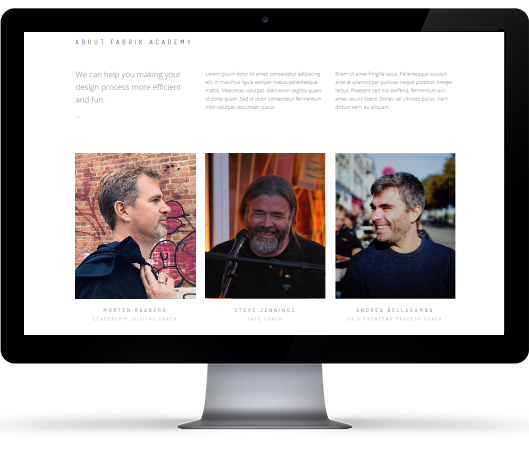
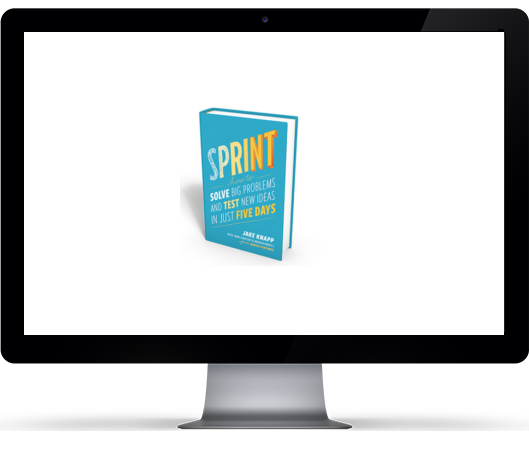
changed a bit of content
added new promo image
commented out team members session

Changed region(s): [[0.121, 0.1556, 0.8771, 0.7156], [0.6352, 0.1556, 0.8469, 0.2489], [0.1512, 0.1556, 0.3327, 0.2489]]

diff --git a/index.html b/index.html
@@ -93,7 +93,7 @@
                             </h1>
                             
                             <div class="hs-line-6">
-                             get better and faster at creating or innovating your product
+                                intelligence is the ability to adapt to change 
                             </div>
                             
                         </div>
@@ -127,8 +127,6 @@
                                     <p>
                                     We can help you making your design process more efficient and fun.
                                     </p>
-                                    <footer>
-                                    </footer>
                                 </blockquote>
                             </div>
                             
@@ -146,7 +144,7 @@
                     <div class="row">
                         
                         <!-- Team item -->
-                        <div class="col-sm-4 mb-xs-30 wow fadeInUp">
+                        <!-- <div class="col-sm-4 mb-xs-30 wow fadeInUp">
                             <div class="team-item">
                                 
                                 <div class="team-item-image">
@@ -164,7 +162,7 @@
                                         <div class="team-social-links">
                                             <a href="#" target="_blank"><i class="fab fa-facebook"></i></a>
                                             <a href="#" target="_blank"><i class="fab fa-twitter"></i></a>
-                                            <a href="#" target="_blank"><i class="fab fa-pinterest"></i></a>
+                                            <a href="#" target="_blank"><i class="fab fa-pinterest-circled"></i></a>
                                         </div>
                                         
                                     </div>
@@ -183,11 +181,11 @@
                                 </div>
                                 
                             </div>
-                        </div>
+                        </div> -->
                         <!-- End Team item -->
                         
                         <!-- Team item -->
-                        <div class="col-sm-4 mb-xs-30 wow fadeInUp" data-wow-delay="0.1s">
+                        <!-- <div class="col-sm-4 mb-xs-30 wow fadeInUp" data-wow-delay="0.1s">
                             <div class="team-item">
                                 
                                 <div class="team-item-image">
@@ -205,7 +203,7 @@
                                         <div class="team-social-links">
                                             <a href="#" target="_blank"><i class="fab fa-facebook"></i></a>
                                             <a href="#" target="_blank"><i class="fab fa-twitter"></i></a>
-                                            <a href="#" target="_blank"><i class="fab fa-pinterest"></i></a>
+                                            <a href="#" target="_blank"><i class="fab fa-pinterest-circled"></i></a>
                                         </div>
                                         
                                     </div>
@@ -224,11 +222,11 @@
                                 </div>
                                 
                             </div>
-                        </div>
+                        </div> -->
                         <!-- End Team item -->
                         
                         <!-- Team item -->
-                        <div class="col-sm-4 mb-xs-30 wow fadeInUp" data-wow-delay="0.2s">
+                        <!-- <div class="col-sm-4 mb-xs-30 wow fadeInUp" data-wow-delay="0.2s">
                             <div class="team-item">
                                 
                                 <div class="team-item-image">
@@ -246,7 +244,7 @@
                                         <div class="team-social-links">
                                             <a href="#" target="_blank"><i class="fab fa-facebook"></i></a>
                                             <a href="#" target="_blank"><i class="fab fa-twitter"></i></a>
-                                            <a href="#" target="_blank"><i class="fab fa-pinterest"></i></a>
+                                            <a href="#" target="_blank"><i class="fab fa-pinterest-circled"></i></a>
                                         </div>
                                         
                                     </div>
@@ -265,7 +263,7 @@
                                 </div>
                                 
                             </div>
-                        </div>
+                        </div> -->
                         <!-- End Team item -->
                         
                     </div>
@@ -340,9 +338,7 @@
                                     <div class="col-md-4 mb-md-40 mb-xs-30">
                                         <blockquote class="mb-0">
                                             <p>
-                                                A&nbsp;brand for a&nbsp;company is&nbsp;like a&nbsp;reputation 
-                                                for a&nbsp;person. You earn reputation by&nbsp;trying to&nbsp;do&nbsp;hard 
-                                                things well.
+                                                DESIGN SPRINT QUOTE.....
                                             </p>
                                             <footer>
                                                 Jeff Bezos
@@ -350,14 +346,10 @@
                                         </blockquote>
                                     </div>
                                     <div class="col-md-4 col-sm-6 mb-sm-50 mb-xs-30">
-                                        Maecenas  volutpat, diam enim sagittis quam, id porta quam. Sed id dolor consectetur fermentum 
-                                        volutpat nibh, accumsan purus. Lorem ipsum dolor sit semper amet, consectetur adipiscing elit. 
-                                        In maximus ligula metus pellentesque mattis.  
-                                    </div>
+                                        A Design Sprint is a focused problem-solving framework for product teams to get answers quickly and effectively. 
+                                        </div>
                                     <div class="col-md-4 col-sm-6 mb-sm-50 mb-xs-30">
-                                        Donec vel ultricies purus. Nam dictum sem, ipsum aliquam . Etiam sit amet fringilla lacus. 
-                                        Pellentesque suscipit ante at ullamcorper pulvinar neque porttitor. Integer lectus. 
-                                        Praesent sed nisi eleifend, fermentum orci amet, iaculis libero. 
+                                        It has become the go-to for timeboxed innovation sessions with an emphasis on collaborative ideation, solution sketching, prototype building, and user testing. The exercises embedded in the five phases are designed to reduce politics, increase collaboration across functions and put the focus on answers (outcomes) and not just assets (outputs). 
                                     </div>
                                 </div>
                             </div>
@@ -742,7 +734,7 @@
                                             Call Us
                                         </div>
                                         <div class="ci-text">
-                                            +61 3 8376 6284
+                                            +45 11223344
                                         </div>
                                     </div>
                                 </div>
@@ -774,7 +766,7 @@
                                             Email
                                         </div>
                                         <div class="ci-text">
-                                            <a href="mailto:support@bestlooker.pro">support@bestlooker.pro</a>
+                                            <a href="mailto:support@fabrik.academy">support@fabrik.academy</a>
                                         </div>
                                     </div>
                                 </div>
@@ -889,7 +881,7 @@
                         <a href="#" title="Facebook" target="_blank"><i class="fab fa-facebook"></i></a>
                         <a href="#" title="Twitter" target="_blank"><i class="fab fa-twitter-bird"></i></a>
                         <a href="#" title="LinkedIn+" target="_blank"><i class="fab fa-linkedin-squared"></i></a>
-                        <a href="#" title="Pinterest" target="_blank"><i class="fab fa-pinterest"></i></a>
+                        <a href="#" title="Pinterest" target="_blank"><i class="fab fa-pinterest-circled"></i></a>
                     </div>
                     <!-- End Social Links -->  
                     

diff --git a/css/style.css b/css/style.css
@@ -1208,6 +1208,7 @@ a.bg-video-button-muted{
     font-size: 30px;
     font-weight: 400;
     letter-spacing: 51px;
+    margin-left: 51px;
     color: #fff;
     opacity: .9;
 }
